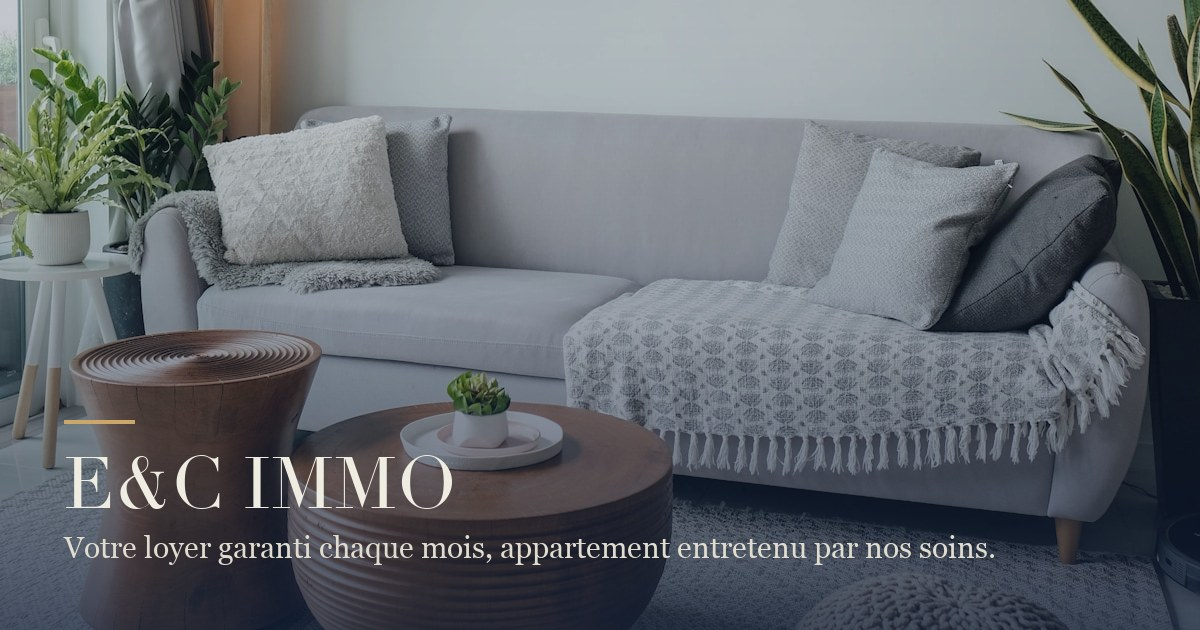
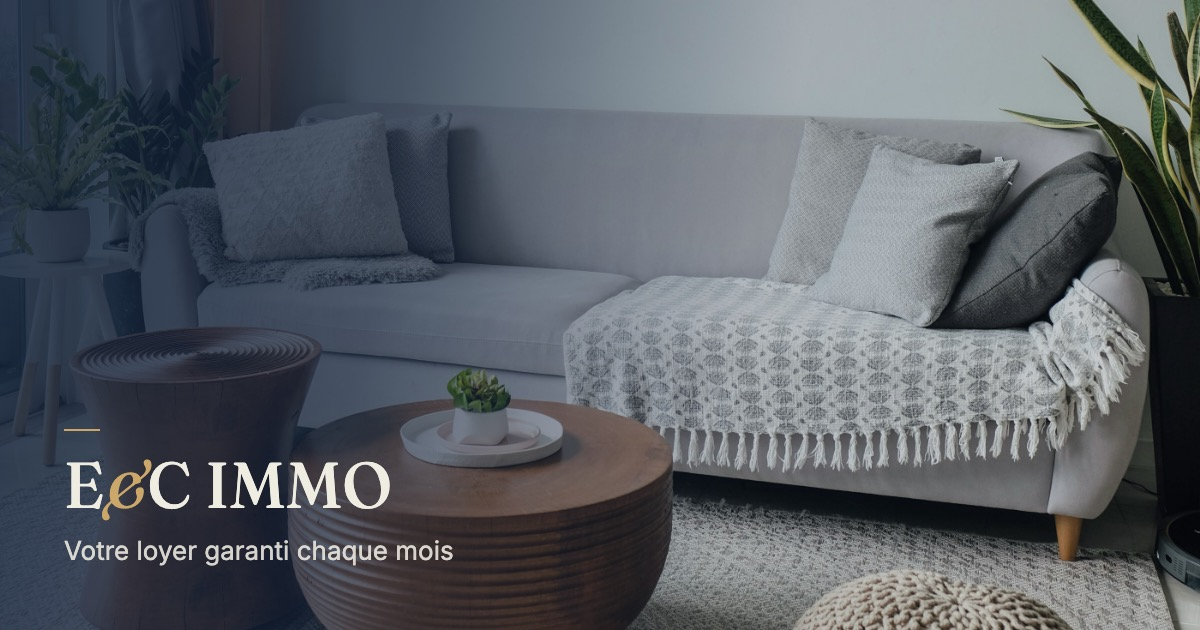
Simplify social share preview: shorter title and cleaner image caption

diff --git a/index.html b/index.html
@@ -16,14 +16,14 @@
 <meta property="og:site_name" content="E&C IMMO">
 <meta property="og:locale" content="fr_FR">
 <meta property="og:url" content="https://ec-immo.fr/">
-<meta property="og:title" content="E&C IMMO : confiez votre appartement, gardez le loyer garanti">
+<meta property="og:title" content="E&C IMMO — Sous-location professionnelle">
 <meta property="og:description" content="Bail civil et sous-location professionnelle : loyer fixe versé chaque mois, appartement entretenu par nos soins, zéro gestion de votre côté.">
 <meta property="og:image" content="https://ec-immo.fr/assets/og-image.jpg">
 <meta property="og:image:width" content="1200">
 <meta property="og:image:height" content="630">
 
 <meta name="twitter:card" content="summary_large_image">
-<meta name="twitter:title" content="E&C IMMO : confiez votre appartement, gardez le loyer garanti">
+<meta name="twitter:title" content="E&C IMMO — Sous-location professionnelle">
 <meta name="twitter:description" content="Bail civil et sous-location professionnelle : loyer fixe versé chaque mois, appartement entretenu par nos soins, zéro gestion de votre côté.">
 <meta name="twitter:image" content="https://ec-immo.fr/assets/og-image.jpg">
 
